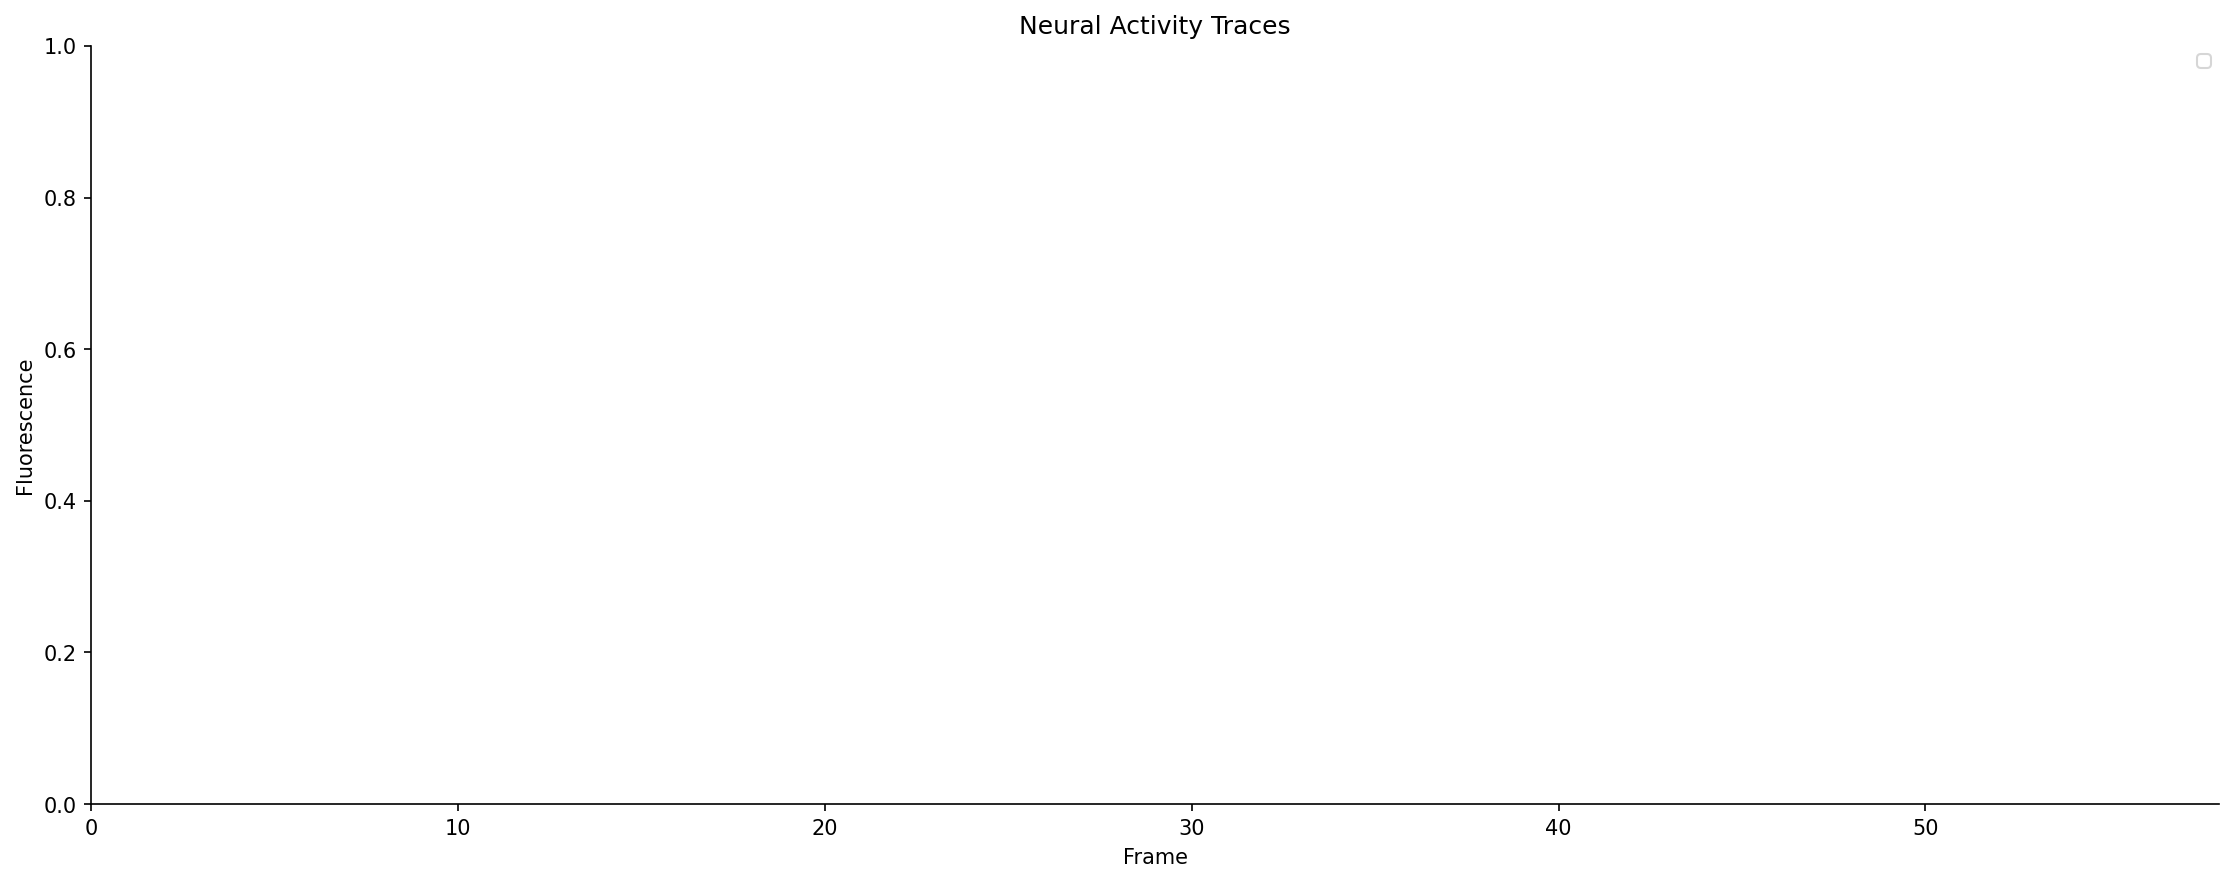
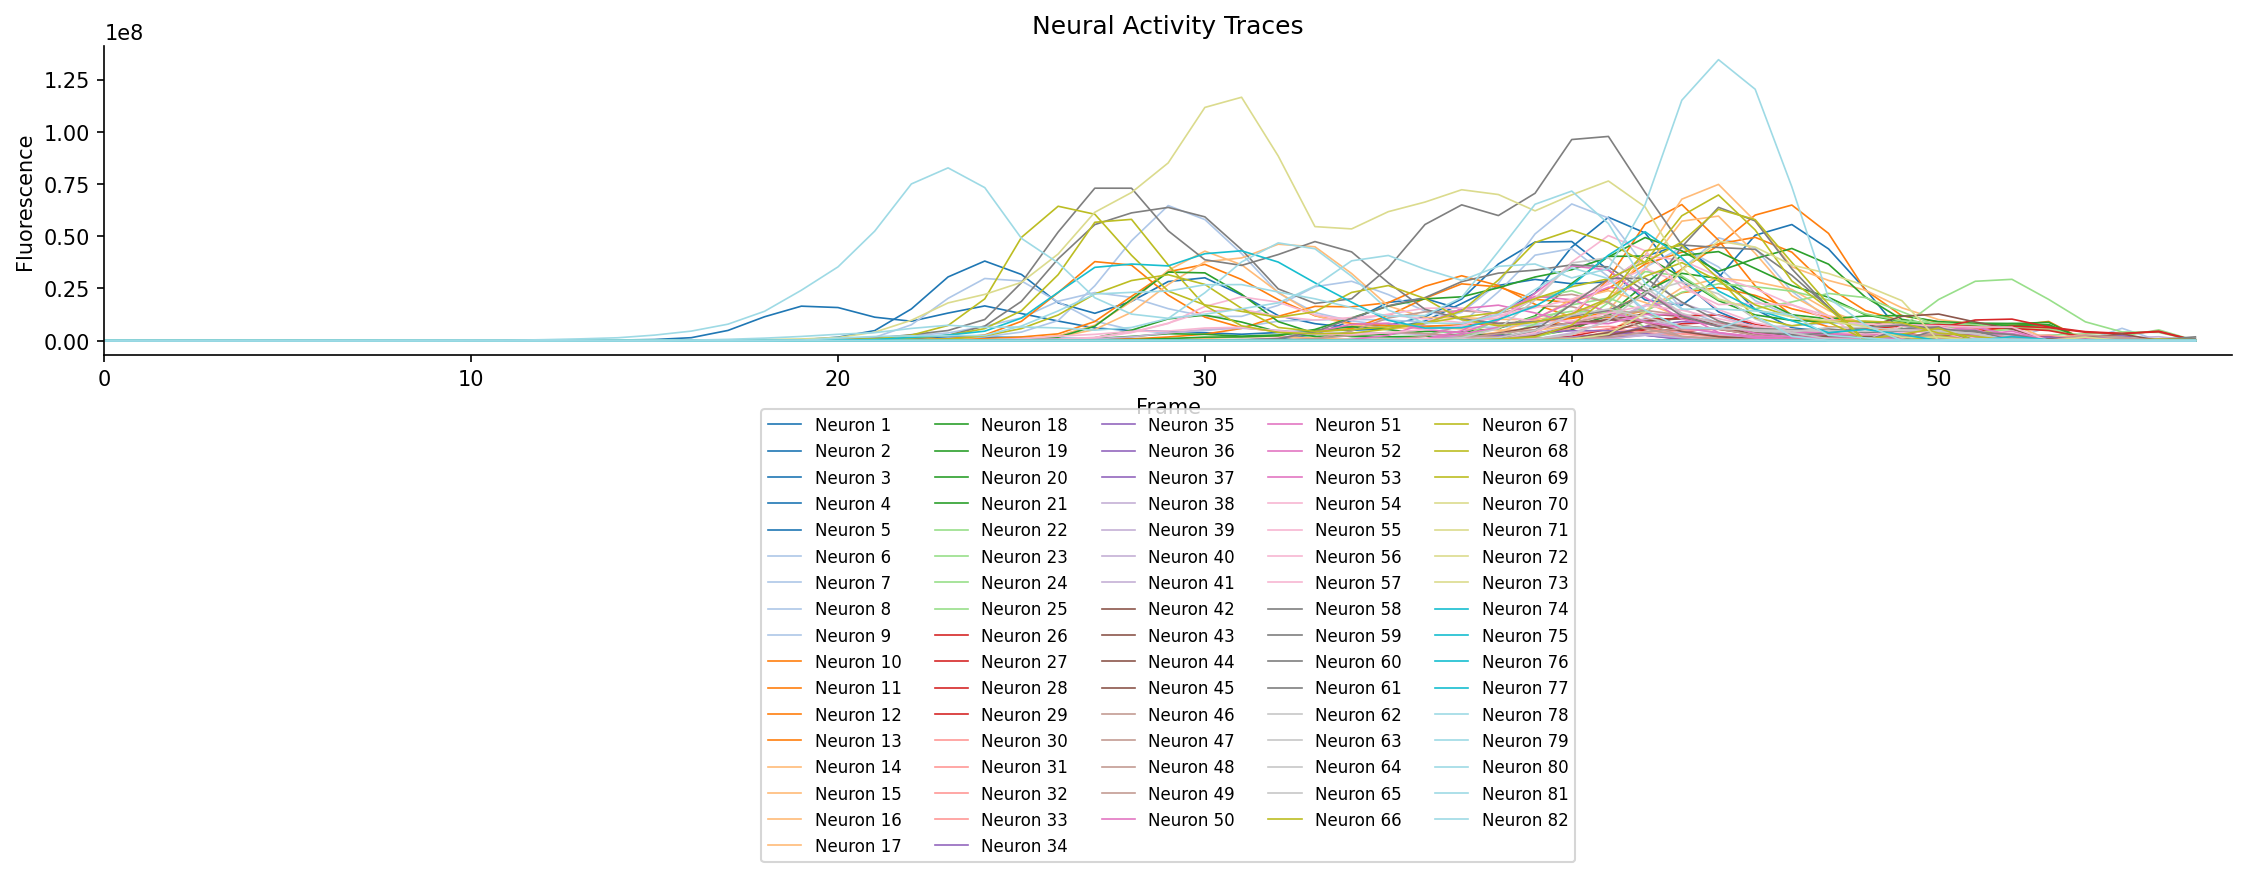
Improve the trace calculation

diff --git a/src/neuroseg/segmenter.py b/src/neuroseg/segmenter.py
@@ -18,19 +18,28 @@ class Segmenter:
 
     @staticmethod
     def extract_traces(masks: list, recording: CalciumRecording) -> np.ndarray:
-        stacked = np.array(masks)
-        consensus_mask = stats.mode(stacked, axis=0).mode
-        N = int(np.max(consensus_mask))
         T = recording.data.shape[0]
+        all_counts = [np.max(m) for m in masks]
+        print(f"Neurons per frame: {all_counts}")
+
+        reference_idx = int(np.argmax(all_counts))
+        reference_mask = masks[reference_idx]
+        N = int(np.max(reference_mask))
+        print(f"Using frame {reference_idx} as reference with {N} neurons")
+
         traces = np.zeros((N, T))
 
         for t in range(T):
             for n in range(1, N + 1):
-                pixel_values = recording.data[t][consensus_mask == n]
+                pixel_values = recording.data[t][reference_mask == n]
                 if len(pixel_values) > 0:
-                    traces[n - 1, t] = pixel_values.mean()
+                    F = pixel_values.mean()
+                    traces[n - 1, t] = F
 
-        return traces
+        F0 = np.percentile(traces, 10, axis=1, keepdims=True)
+        dff = (traces - F0) / (F0 + 1e-6)
+
+        return dff
 
     @staticmethod
     def save_results(masks, flows, file_name):

diff --git a/src/neuroseg/calcium_recording.py b/src/neuroseg/calcium_recording.py
@@ -63,7 +63,7 @@ class CalciumRecording:
         ax.set_xlim(0, T)
         ax.spines['top'].set_visible(False)
         ax.spines['right'].set_visible(False)
-        ax.legend(loc='upper right', fontsize=8, ncol=2)
+        ax.legend(loc='upper center', bbox_to_anchor=(0.5, -0.15), fontsize=8, ncol=5)
         plt.title("Neural Activity Traces")
         plt.tight_layout()
         plt.savefig("traces.png", dpi=150, bbox_inches='tight')
